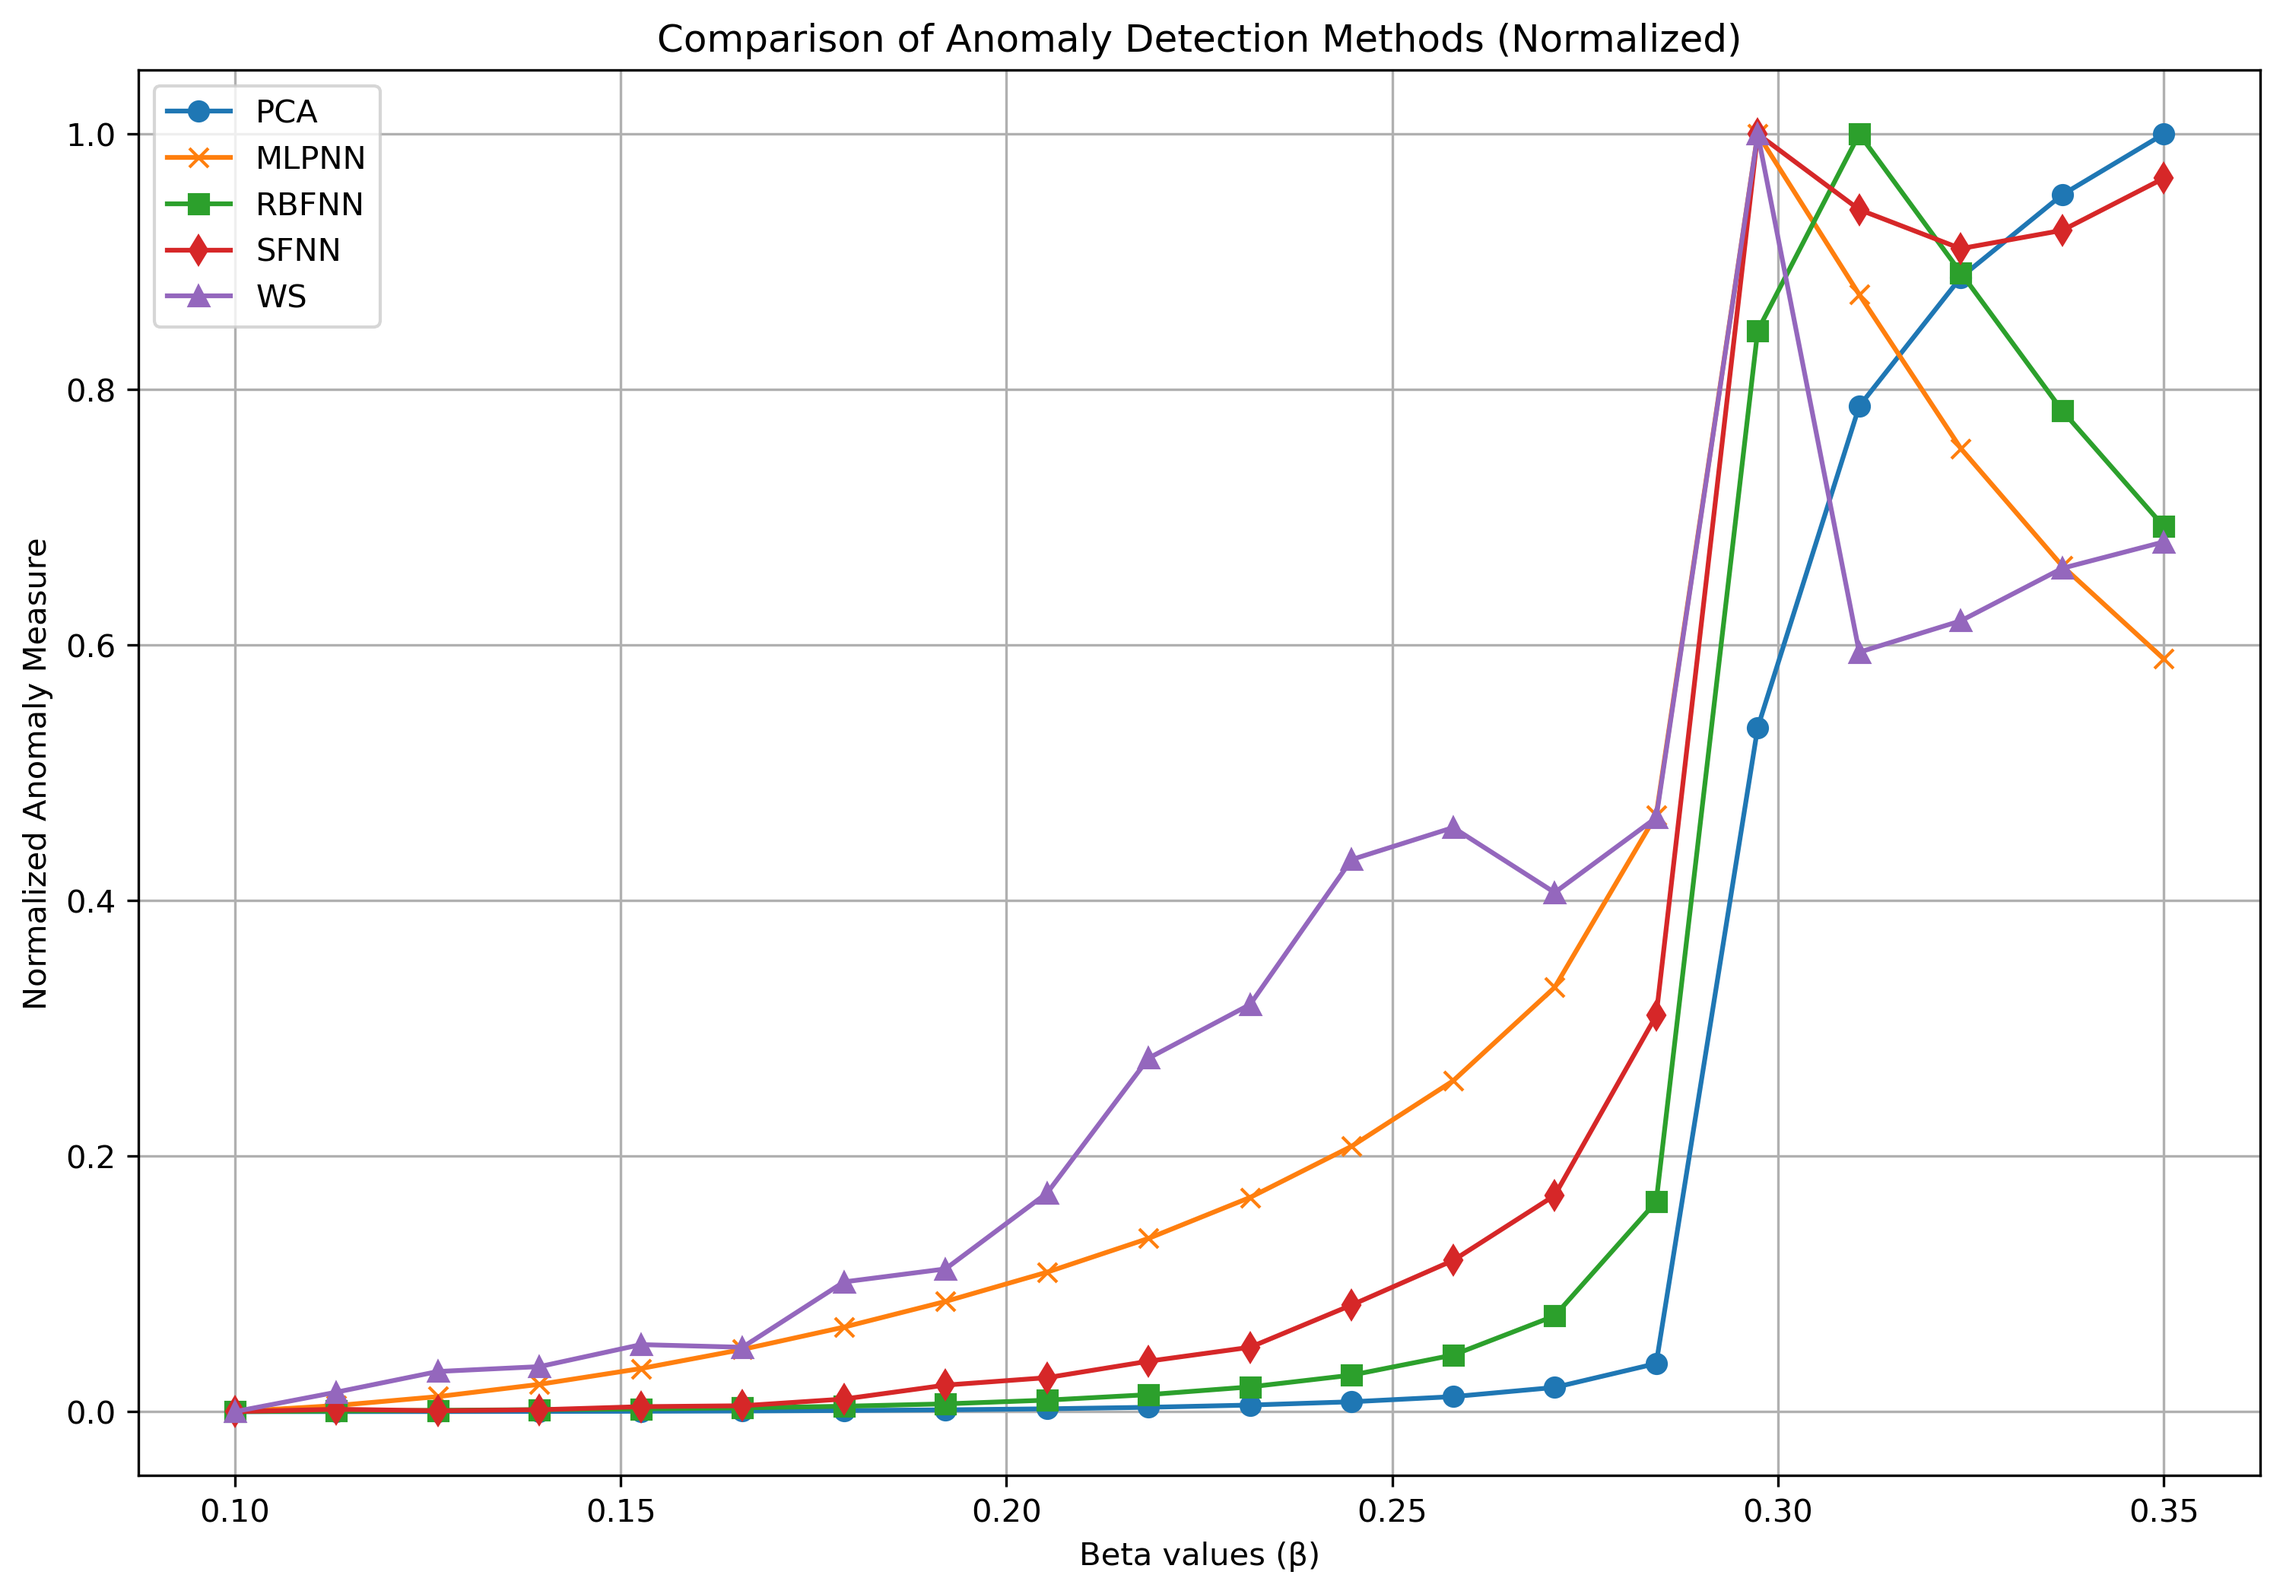
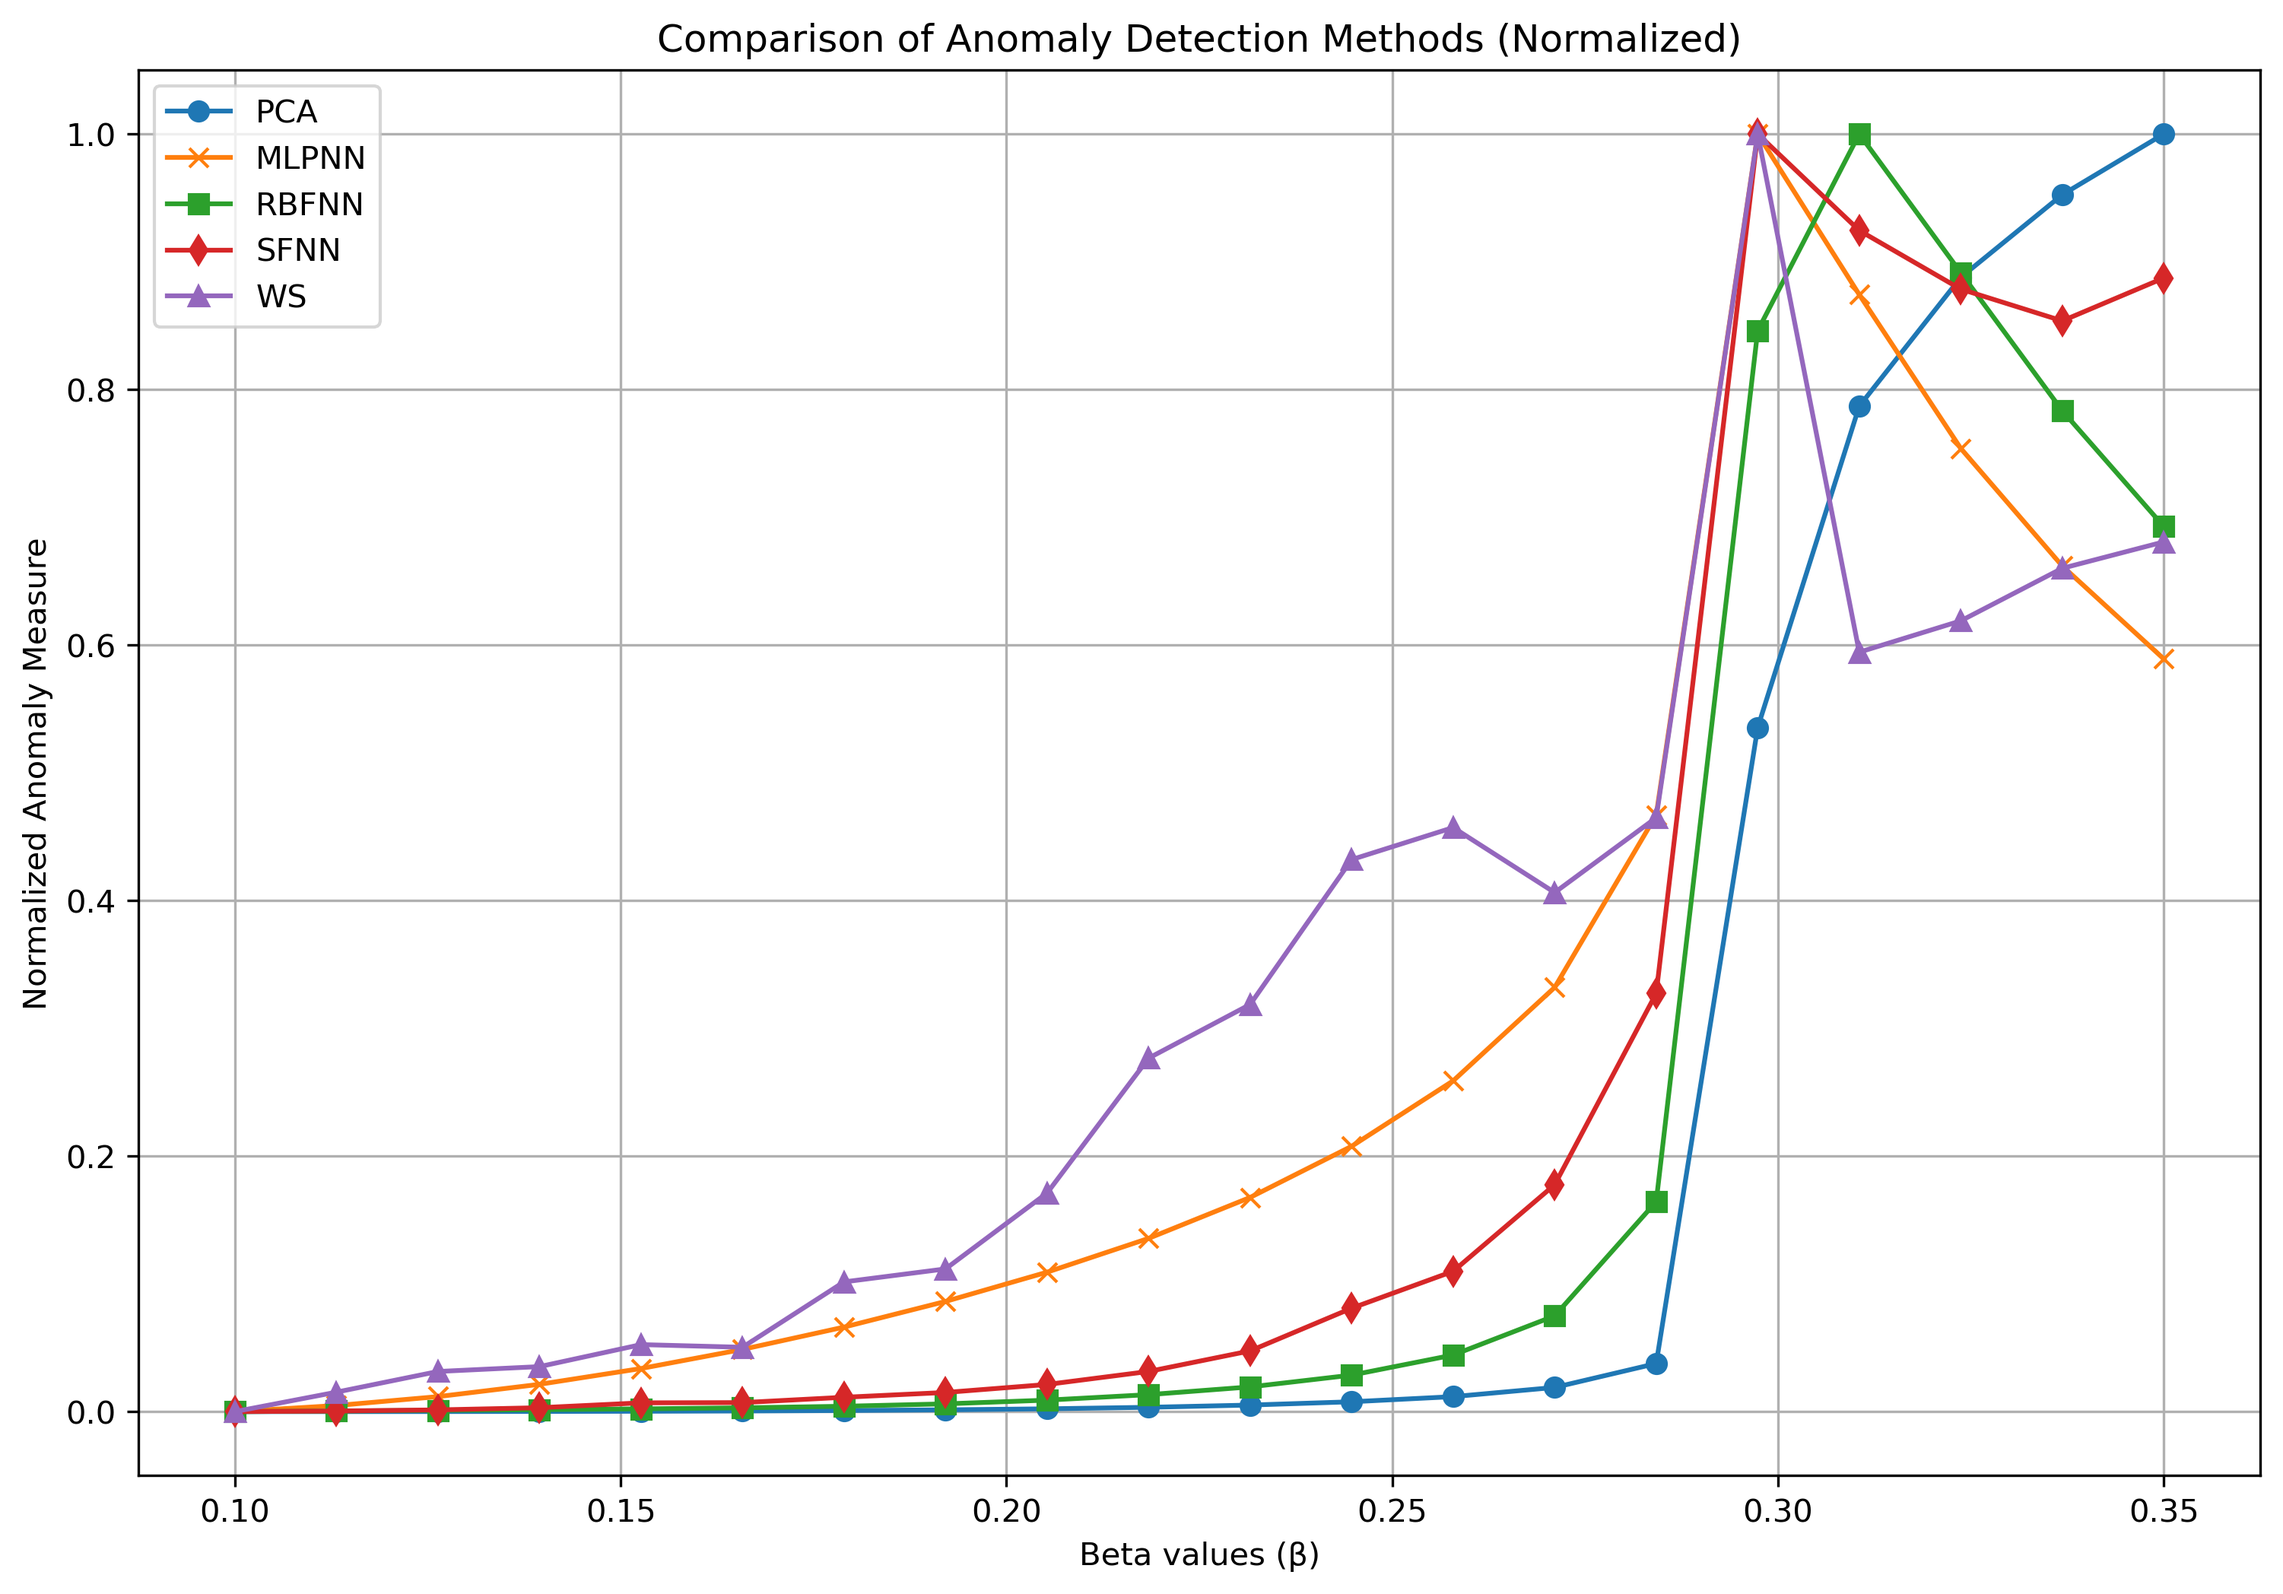
Fin

diff --git a/models/sfnn.py b/models/sfnn.py
@@ -6,10 +6,10 @@ from sklearn.neighbors import NearestNeighbors
 from sklearn.cluster import KMeans
 
 
-def symbolic_false_nearest_neighbors(data, alphabet_size, centers=None, delay=5):
+def symbolic_false_nearest_neighbors(data, alphabet_size, centers=None, delay=18):
     # Compute the embedded with dimension d
     if centers is None: # Compute the centroid
-        for dim in range(4,8):
+        for dim in range(2,8):
             # Compute the embedded with dimension d
             n = len(data)
             
@@ -41,7 +41,7 @@ def symbolic_false_nearest_neighbors(data, alphabet_size, centers=None, delay=5)
 
 
 
-def symbolic_false_nearest_neighbors_2(data, alphabet_size, d=3, centers=None, delay=2):
+def symbolic_false_nearest_neighbors_2(data, alphabet_size, d=3, centers=None, delay=18):
     """Apply SFNN (Symbolic False Nearest Neighbours) for partitioning time series into symbolic sequences.
     parameter to optimize: [alphabet_size*()]"""
     ######
@@ -174,7 +174,7 @@ def objective_function(params, embedded, d, delay):
 
 
 
-def compute_sfnn_anomaly_scores(data_scaled, alphabet_size = 8, D=1, nominal_beta = 0.10):
+def compute_sfnn_anomaly_scores(data_scaled, alphabet_size = 8, D=1, nominal_beta = 0.10, delay=18):
     """
     Calculate the anomaly measure using the D-Markov Machine with Symbolic False Nearest Neighbours (SFNN).
     Args:
@@ -187,12 +187,12 @@ def compute_sfnn_anomaly_scores(data_scaled, alphabet_size = 8, D=1, nominal_bet
     """
 
     sfnn_anomaly_measures = {}
-    nominal_sfnn, centers = symbolic_false_nearest_neighbors(data_scaled[nominal_beta], alphabet_size=alphabet_size)
+    nominal_sfnn, centers = symbolic_false_nearest_neighbors(data_scaled[nominal_beta], alphabet_size=alphabet_size, delay=delay)
 
     for beta, data in data_scaled.items():
 
         # SFNN Symbolization
-        symbolic_sfnn, _ = symbolic_false_nearest_neighbors(data, alphabet_size=alphabet_size, centers = centers)
+        symbolic_sfnn, _ = symbolic_false_nearest_neighbors(data, alphabet_size=alphabet_size, centers = centers, delay=delay)
         if beta==0.1:
             symbolic_sfnn = nominal_sfnn
 

diff --git a/pipeline.py b/pipeline.py
@@ -7,7 +7,8 @@ from models import (compute_mlpnn_anomaly_scores,
                     compute_ws_anomaly_scores)
 from plot.plots import (plot_models, 
                         plot_symbolization_comparison_WS, 
-                        plot_Markov_order_comparison_for_WS)
+                        plot_Markov_order_comparison_for_WS,
+                        plot_delay_influence)
 
 
 
@@ -175,3 +176,31 @@ def run_Markov_order_comparison_for_WS(beta_min=0.10,
     
     # generate the plot of the anomaly measures for the different symbolization techniques
     plot_Markov_order_comparison_for_WS(anomaly_mesures)
+
+
+
+def delay_influence(beta_min=0.10, 
+                    beta_max=0.35,
+                    num_beta=20,
+                    nominal_beta=0.10,
+                    A=22.0, 
+                    omega=5.0, 
+                    sampling_rate=100,
+                    total_time=40,
+                    alphabet_size=8):
+
+
+    # compute beta values for the experiments
+    beta_values = np.linspace(beta_min, beta_max, num_beta)
+    
+    # generate and preprocess time series based on Duffing problem
+    data_scaled, _ = preprocess_time_series(beta_values, A, omega, sampling_rate, total_time)
+
+    anomaly_mesures={}
+
+    delays = [8, 12, 18, 21, 30]
+    for delay in delays:
+        sfnn_anomaly_measures = compute_sfnn_anomaly_scores(data_scaled, alphabet_size=alphabet_size, D=1, nominal_beta=nominal_beta, delay=delay)
+        anomaly_mesures[delay] = sfnn_anomaly_measures
+    
+    plot_delay_influence(anomaly_mesures)

diff --git a/plot/plots.py b/plot/plots.py
@@ -77,3 +77,25 @@ def plot_Markov_order_comparison_for_WS(anomaly_mesures):
     plt.grid()
     plt.legend()
     plt.savefig('plot/Markov_orders_comparison_plot.png', dpi=300, bbox_inches='tight')
+
+
+def plot_delay_influence(anomaly_mesures):
+    """
+    Plots the evolution of the anomaly measures over beta values for different models.
+    Args:
+        anomaly_mesures(dict): Dictionary containing the anomaly measures for each model.
+    """
+    
+    # Plot all anomaly measures
+    plt.figure(figsize=(12, 8))
+    color = ['#ad0100', '#f60002', '#f74d4d', '#f79b9c', '#f6eaea']
+    
+    for i, (name, mesure) in enumerate(anomaly_mesures.items()):
+        plt.plot(list(mesure.keys()), list(mesure.values()), marker='x', label=name, color=color[i])
+    
+    plt.xlabel('Delay values')
+    plt.ylabel('Normalized Anomaly Measure')
+    plt.title('Influence of delay in SFNN method')
+    plt.grid()
+    plt.legend()
+    plt.savefig('plot/delay_influence.png', dpi=300, bbox_inches='tight')

diff --git a/main.py b/main.py
@@ -1,6 +1,7 @@
 from pipeline import (run_Duffing_problem_anomaly_mesure,
                       run_Symbolization_comparison_for_WS,
-                      run_Markov_order_comparison_for_WS)
+                      run_Markov_order_comparison_for_WS,
+                      delay_influence)
 
 
 
@@ -51,3 +52,13 @@ if __name__ == "__main__":
     #    D_values=[1,2,3,4,5],       # The list of orders of the Markov Chain
     #    symbolization='SAX'     # type of symbolization (linear or SAX)
     #)
+
+    # delay_influence(beta_min=0.10, 
+    #                 beta_max=0.35,
+    #                 num_beta=20,
+    #                 nominal_beta=0.10,
+    #                 A=22.0, 
+    #                 omega=5.0, 
+    #                 sampling_rate=100,
+    #                 total_time=40,
+    #                 alphabet_size=8)
